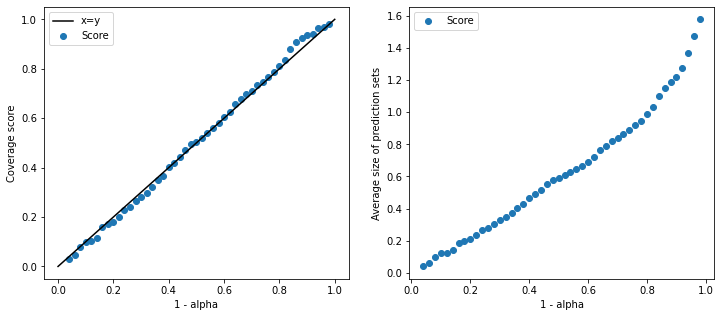
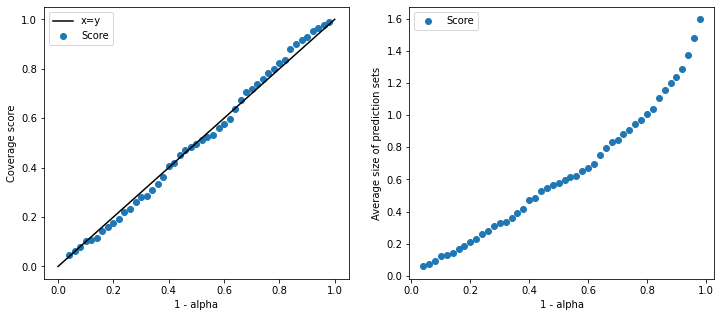
Update classif tuto

diff --git a/doc/tutorial_classification.rst b/doc/tutorial_classification.rst
@@ -13,6 +13,9 @@ Throughout this tutorial, we will answer the following questions:
 
 -  Is the chosen conformal method well calibrated ?
 
+-  What are the pros and cons of the conformal methods included in
+   :class:``mapie.regression.MapieClassifier`` ?
+
 1. Conformal Prediction method using the softmax score of the true label
 ------------------------------------------------------------------------
 
@@ -100,7 +103,7 @@ the prediction sets with differents alpha values with a ``fit`` and
 
     from sklearn.naive_bayes import GaussianNB
     from mapie.classification import MapieClassifier
-    from mapie.metrics import classification_coverage_score
+    from mapie.metrics import classification_coverage_score, classification_mean_width_score
     clf = GaussianNB().fit(X_train, y_train)
     y_pred = clf.predict(X_test)
     y_pred_proba = clf.predict_proba(X_test)
@@ -167,12 +170,12 @@ different values of alpha.
         fig, [[ax1, ax2], [ax3, ax4]] = plt.subplots(2, 2, figsize=(10, 10))
         axs = {0: ax1, 1: ax2, 2:  ax3, 3: ax4}
         axs[0].scatter(
-        X[:, 0],
-        X[:, 1],
-        color=y_pred_col,
-        marker='.',
-        s=10,
-        alpha=0.4
+            X[:, 0],
+            X[:, 1],
+            color=y_pred_col,
+            marker='.',
+            s=10,
+            alpha=0.4
         )
         axs[0].set_title("Predicted labels")
         for i, alpha in enumerate(alphas):
@@ -223,7 +226,7 @@ on a large number of :math:``\alpha`` values.
         for i, _ in enumerate(alpha2)
     ]
     widths_score = [
-        y_ps_score2[:, :, i].sum(axis=1).mean()
+        classification_mean_width_score(y_ps_score2[:, :, i])
         for i, _ in enumerate(alpha2)
     ]
 
@@ -270,7 +273,6 @@ test set after fitting MAPIE on the calibration set.
 
 .. code-block:: python
 
-    y_pred_proba_max = np.max(y_pred_proba, axis=1)
     mapie_aps = MapieClassifier(estimator=clf, cv="prefit", method="cumulated_score")
     mapie_aps.fit(X_cal, y_cal)
     alpha = [0.2, 0.1, 0.05]
@@ -286,7 +288,8 @@ test set after fitting MAPIE on the calibration set.
 
 
 One can notice that the uncertain regions are emphasized by wider
-boundaries, but without null prediction sets.
+boundaries, but without null prediction sets with respect to the first
+“score” method.
 
 .. code-block:: python
 
@@ -296,7 +299,7 @@ boundaries, but without null prediction sets.
         for i, _ in enumerate(alpha2)
     ]
     widths_aps = [
-        y_ps_aps2[:, :, i].sum(axis=1).mean()
+        classification_mean_width_score(y_ps_aps2[:, :, i])
         for i, _ in enumerate(alpha2)
     ]
 
@@ -309,3 +312,6 @@ boundaries, but without null prediction sets.
 .. image:: tutorial_classification_files/tutorial_classification_28_0.png
 
 
+This method also gives accurate calibration plots, meaning that the
+effective coverage level is always very close to the target coverage,
+sometimes at the expense of slightly bigger prediction sets.
